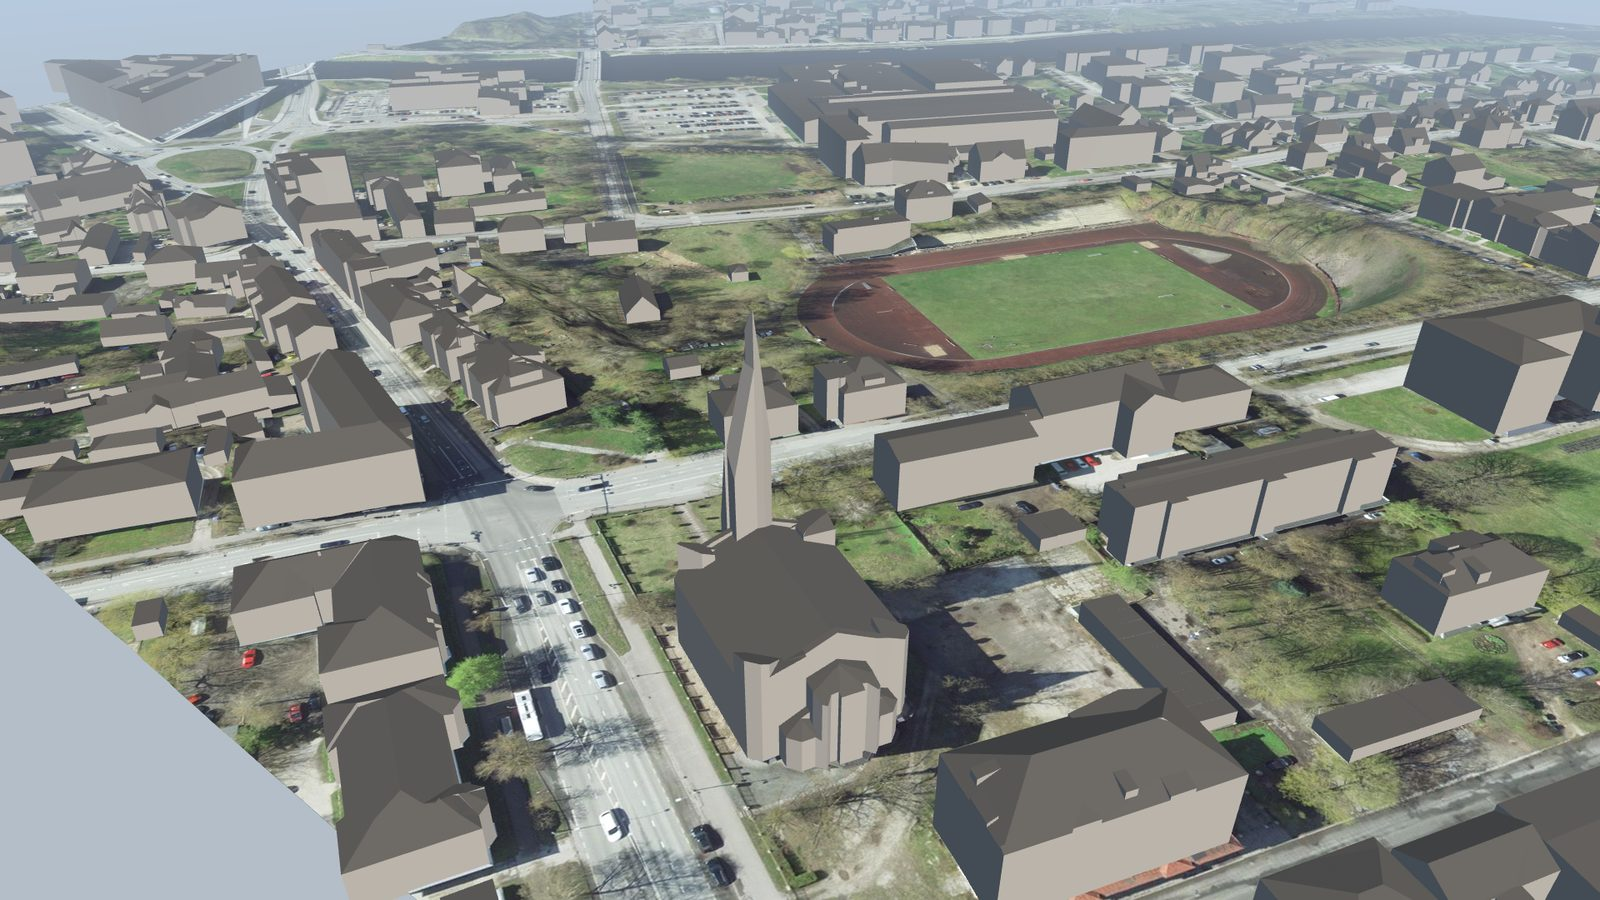
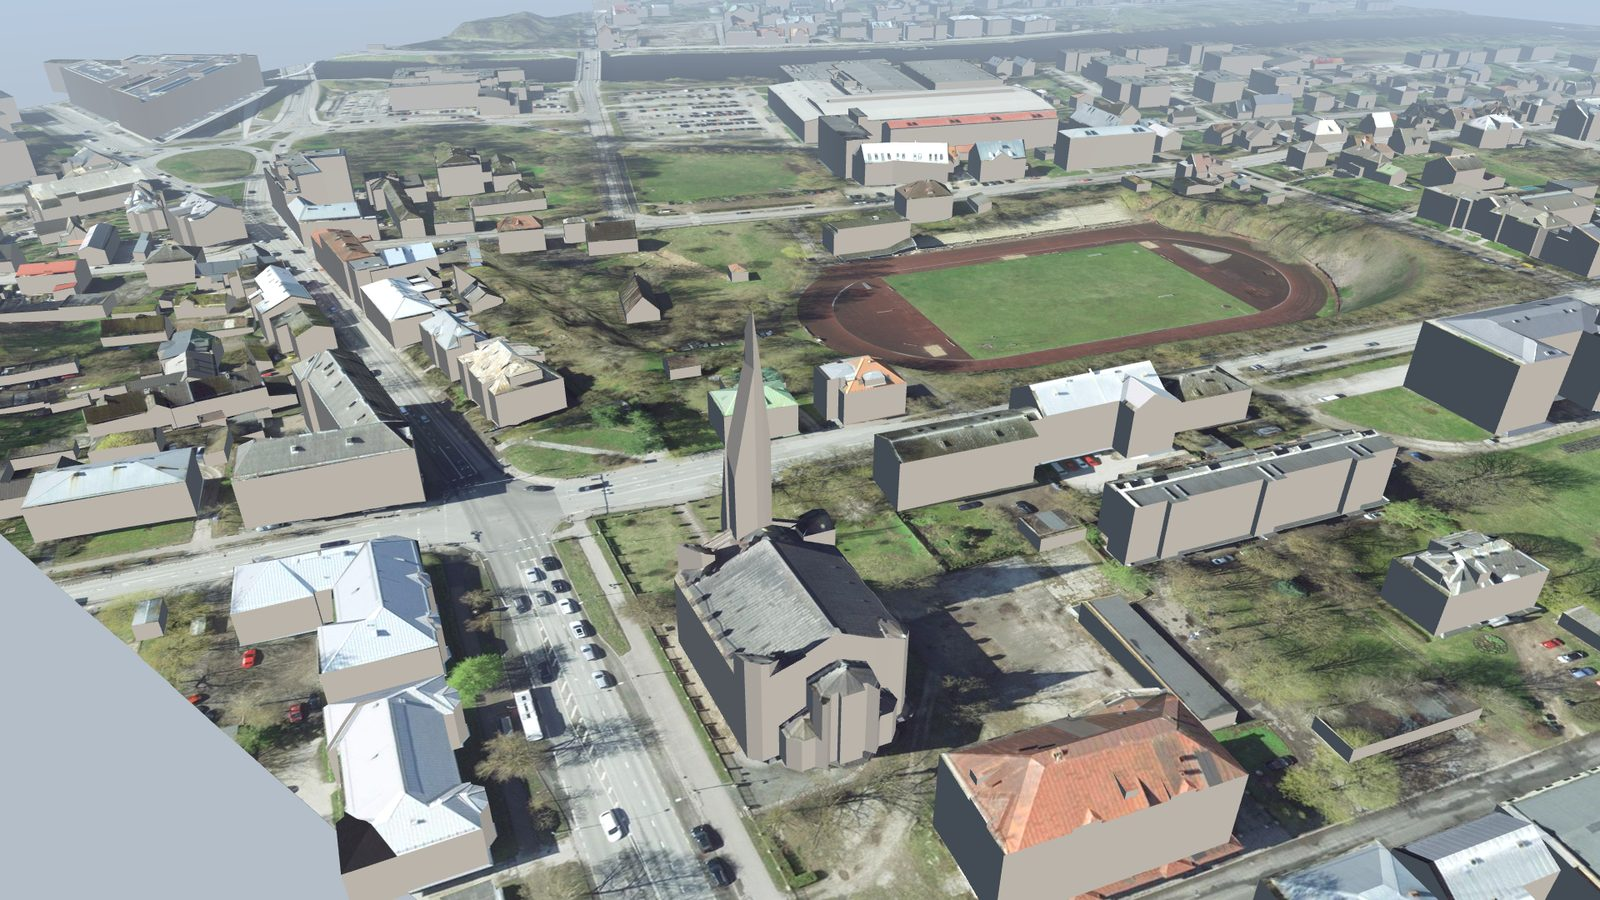
Render the tours again, and put the old town in the inventory
The three 1 km tiles have new roofs, so every tour picture of them is out of
date. All three are rendered again on the workstation, which is the only machine
in this project with a GPU. The old town has a tour and a preview for the first
time, which the release workflow requires of every published map.

docs/maps.md gains the old town section and says what the tiles now hold. The
building count in it comes from the build report: 549, which is fewer than the
776 of tartu-vaksali. The tile is not dense in number. It is dense in the way
that matters for flying, with the houses attached to each other around courtyards
and along streets, and that is a wall problem rather than a roof problem.

diff --git a/docs/maps.md b/docs/maps.md
@@ -9,13 +9,14 @@ hold the same maps under the names `vaksali`, `ulejoe`, `tartu-base` and
 `annelinn-test`. The folder in the game must carry the new name, so an installed map
 from an older release needs a new folder. See `docs/decisions.md`.
 
-The numbers come from the build reports of version 0.4.0, built on 2026-09-11 on macOS
-arm64. A build on another processor architecture writes a file of a slightly different
+The numbers come from the build reports of version 0.5.0, built on 2026-09-13 on Linux
+x86_64. A build on another processor architecture writes a file of a slightly different
 size, because the JPEG encoder differs. The geometry is the same everywhere. See
 `docs/development.md`, "How reproducible a build is".
 
 | Map | Area | Ground pixel | Buildings | Triangles | File | First release |
 |-----|------|--------------|-----------|-----------|------|---------------|
+| [`tartu-old-town`](#tartu-old-town) | 1 x 1 km | 12.2 cm | 549 | 0.55 M | 26.5 MB | v0.5.0 |
 | [`tartu-vaksali`](#tartu-vaksali) | 1 x 1 km | 12.2 cm | 776 | 0.55 M | 26.5 MB | v0.3.0 |
 | [`tartu-ulejoe`](#tartu-ulejoe) | 1 x 1 km | 12.2 cm | 883 | 0.54 M | 25.8 MB | v0.3.0 |
 | [`tartu`](#tartu) | 9 x 9 km | 1.10 m | 23,745 | 2.87 M | 126 MB | v0.2.0 |
@@ -39,11 +40,39 @@ them.
 
 - Terrain from the Maa-amet 1 m elevation model, as one mesh or as a grid of chunks.
 - One ground texture, cut from the orthophoto and baked into the file as a JPEG.
-- LOD2 buildings with the in-game concrete and asphalt materials. The walls carry no
-  photo texture yet. See `docs/analysis.md` section 4 for the plan.
+- LOD2 buildings with the in-game concrete on the walls. The three 1 km tiles give
+  each roof its own picture from the orthophoto, straight down, so a tin roof is red
+  and a tile roof is brown. The 9 x 9 km base map keeps the in-game asphalt, because
+  its ground texture is 1.1 m per pixel and that is not a roof.
+- The walls carry no photo texture. `docs/facades.md` describes a pipeline that can
+  put one there, and `docs/licensing.md` D6 says why no such map is published yet.
 
 What no map holds yet: trees, power lines, lattice towers, bridges, a water surface,
-hand made hero assets and photo facades. `README.md` lists them under planned products.
+hand made hero assets and photo facades on the walls. `README.md` lists them under
+planned products. A map built straight from the lidar holds the first four already,
+because they were in the beam: see `docs/lidar.md`.
+
+## tartu-old-town
+
+1 km² of the Tartu old town, with Raekoja plats in the middle. The box is not on the
+Maa-amet 1:2000 grid, because no sheet aligned box holds the old town core: the square,
+Toomemägi with the toomkirik ruin, Jaani kirik, the tähetorn, Kaarsild and Võidu sild.
+
+The spawn point is on Raekoja plats, in the open between the raekoda and the Emajõgi
+end of the square. The square is 60 m wide, so the drone starts enclosed on two sides,
+which is what an old town flight feels like. Toomemägi rises about 25 m over it, so the
+tile uses the 2 m terrain step.
+
+The 549 buildings of this box are fewer than the 776 of `tartu-vaksali`, and they are
+the reason the tile exists: most of them are attached to their neighbours in blocks,
+around courtyards, along streets a drone can fly down. That is a wall problem rather
+than a roof problem, which is what `docs/facades.md` is the work on.
+
+### The tour of `tartu-old-town`
+
+![Raekoja plats](screenshots/tartu-old-town-tour-2-raekoja-plats.jpg)
+
+![Toomemägi](screenshots/tartu-old-town-tour-3-toomemagi.jpg)
 
 ## tartu-vaksali
 
